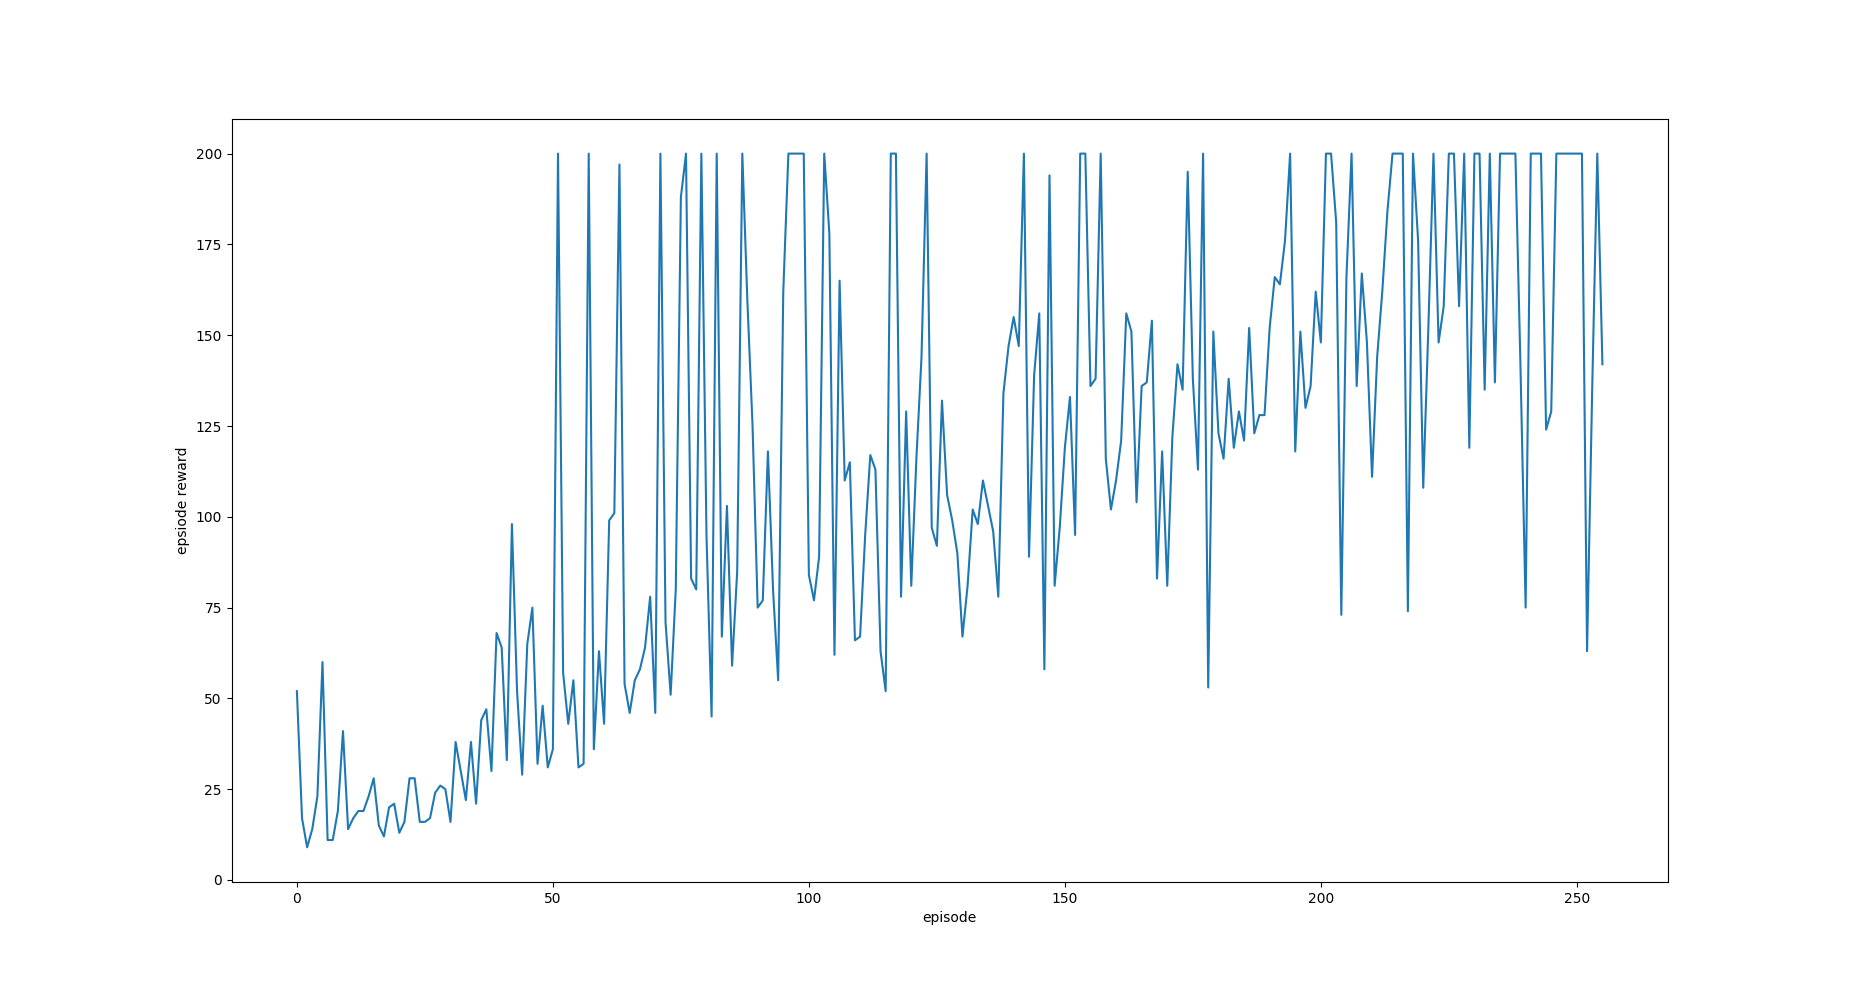
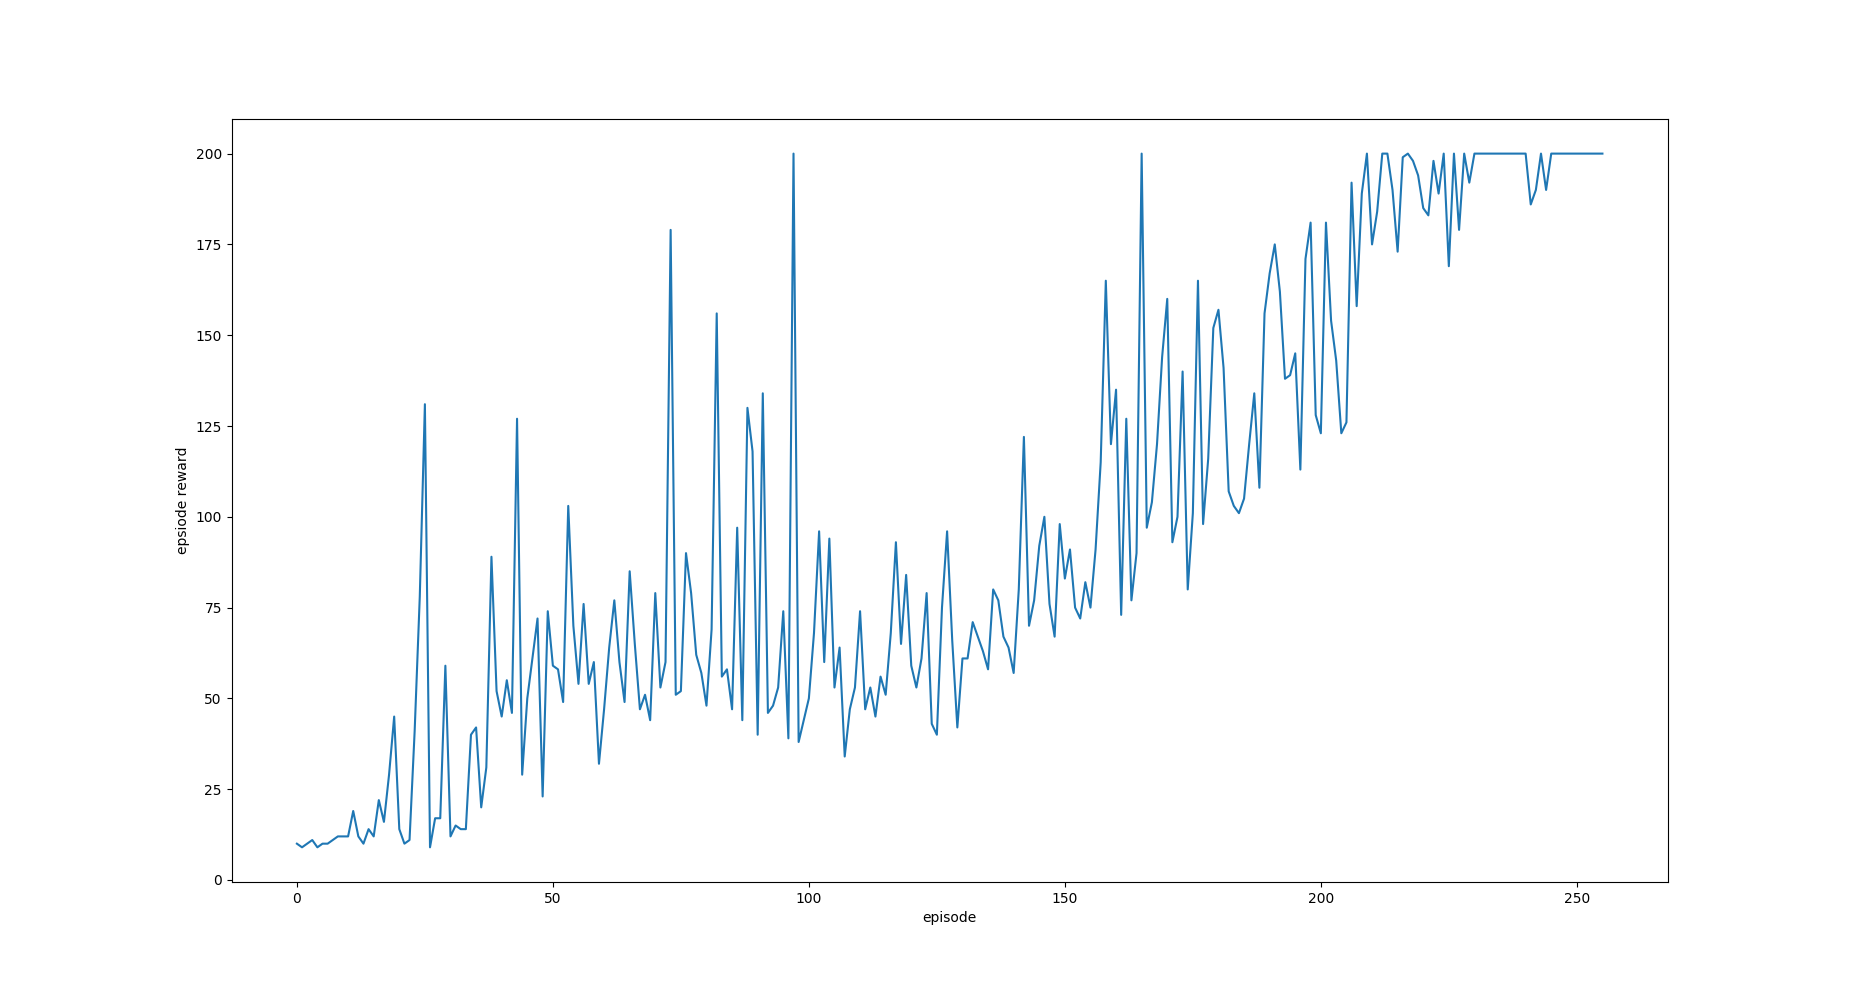
reverse training in replay

Changed region(s): [[0.1538, 0.1514, 0.8613, 0.8476], [0.8305, 0.4844, 0.8613, 0.5449], [0.2153, 0.5146, 0.2461, 0.5752]]

diff --git a/q-replay.py b/q-replay.py
@@ -80,7 +80,7 @@ class EpisodeReplay:
 
 
     def train(self, learning_rate, discount, start_step=0):
-        for step in range(start_step, len(self.actions)):
+        for step in reversed(range(start_step, len(self.actions))): # reverse so that we don't fit to things that will soon be modified
             expected_rewards = get_expected_rewards(observation=self.observations[step + 1])
             done = (step + 1 == len(self.actions)) if self.is_finished else False
             train_step(
